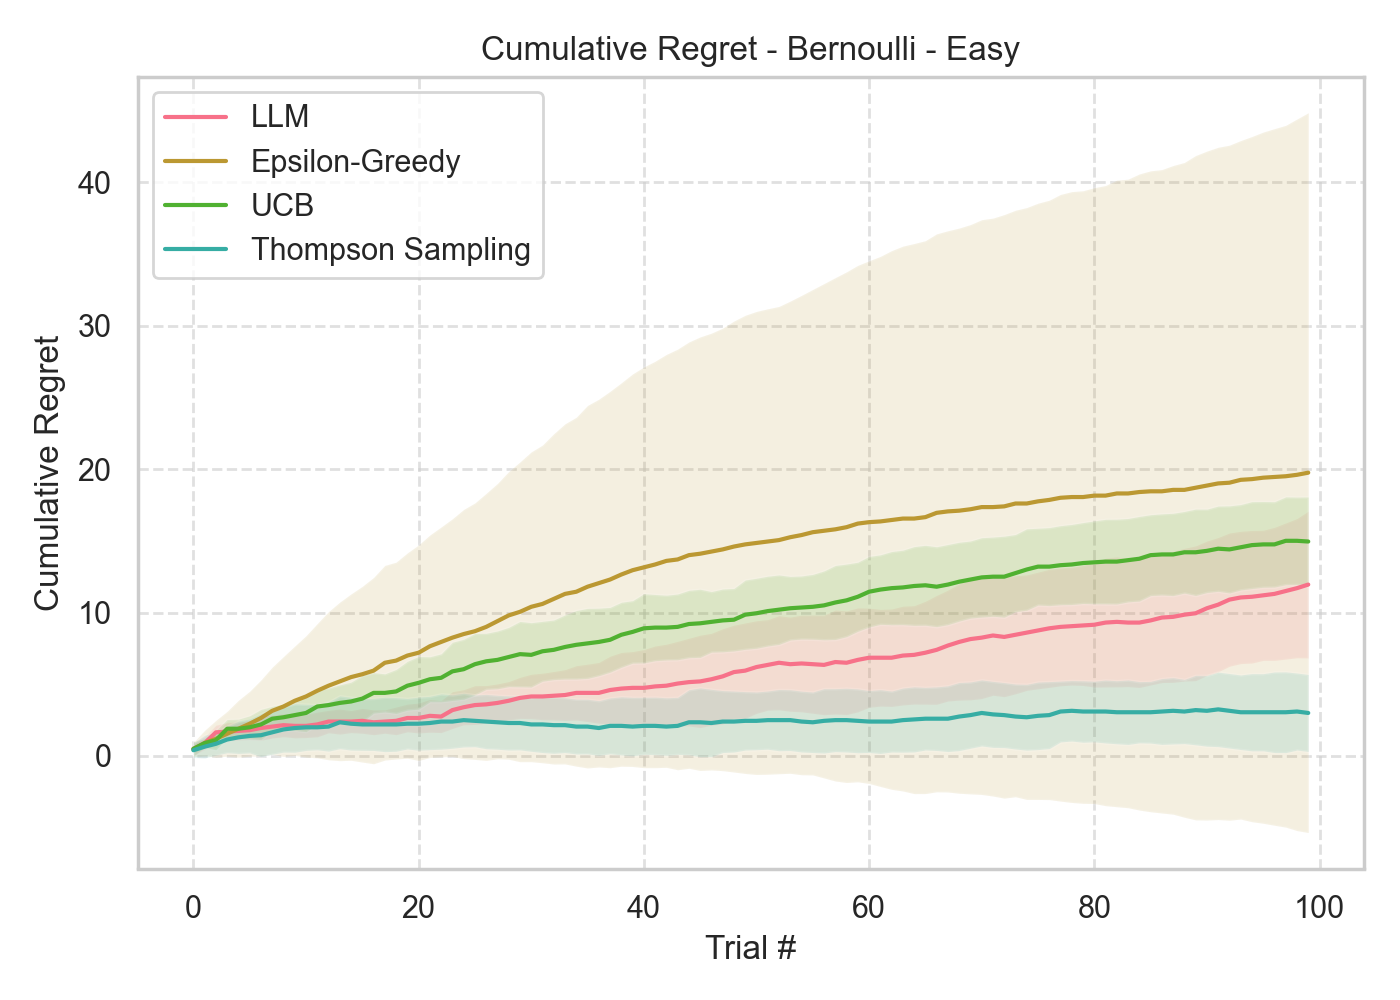
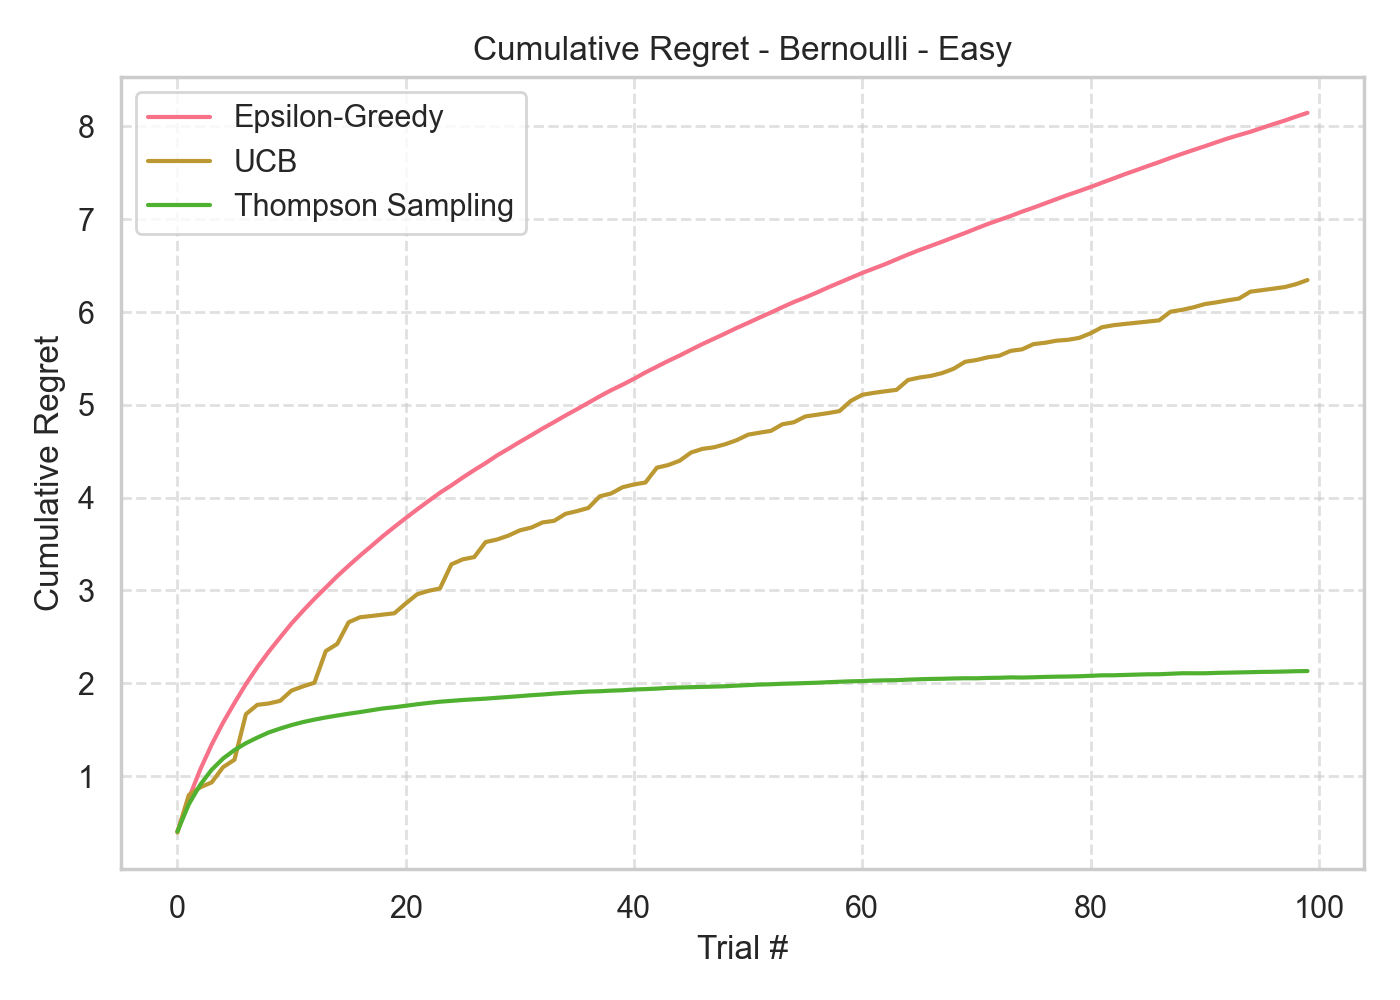
scenarios cases

diff --git a/scenario.py b/scenario.py
@@ -2,10 +2,13 @@ import numpy as np
 import matplotlib.pyplot as plt
 from typing import List, Tuple, Dict, Optional
 import seaborn as sns
-from agents.llm_agent import LLMAgent
+# from agents.llm_agent import LLMAgent  # Commented out LLM agent
 from agents.epsilon import EpsilonGreedyAgent
+from agents.gaussian_epsilon_greedy import GaussianEpsilonGreedyAgent
 from agents.ucb import UCBAgent
+from agents.gaussian_ucb import GaussianUCBAgent
 from agents.thompson import ThompsonSamplingAgent
+from agents.gaussian_thompson_sampling import GaussianThompsonSamplingAgent
 from environments.bernoulli_bandit import BernoulliBandit
 from environments.gaussian_bandit import GaussianBandit
 import os
@@ -30,12 +33,20 @@ class BanditScenario:
         self.n_trials = n_trials
         self.n_episodes = n_episodes
         
-        # Initialize agents
-        self.agents = {
-            'LLM': LLMAgent(),
-            'Epsilon-Greedy': EpsilonGreedyAgent(epsilon=0.1),
+        # Initialize agents for Bernoulli bandit
+        self.bernoulli_agents = {
+            'Epsilon-Greedy': EpsilonGreedyAgent(epsilon=0.1, environment_type='bernoulli'),
             'UCB': UCBAgent(),
-            'Thompson Sampling': ThompsonSamplingAgent()
+            'Thompson Sampling': ThompsonSamplingAgent(environment_type='bernoulli'),
+            # 'LLM': LLMAgent(model="gpt-4.1-nano"),  # Commented out LLM agent
+        }
+        
+        # Initialize agents for Gaussian bandit
+        self.gaussian_agents = {
+            'Epsilon-Greedy': GaussianEpsilonGreedyAgent(n_arms=n_arms, epsilon=0.1),
+            'UCB': GaussianUCBAgent(n_arms=n_arms),
+            'Thompson Sampling': GaussianThompsonSamplingAgent(n_arms=n_arms),
+            # 'LLM': LLMAgent(model="gpt-4.1-nano"),  # Commented out LLM agent
         }
         
         # Set up plotting style
@@ -105,13 +116,13 @@ class BanditScenario:
         return (mean1, std1), (mean2, std2)
         
     def run_bernoulli_scenario(self, scenario: str):
-        results = {agent_name: np.zeros((self.n_episodes, self.n_trials)) for agent_name in self.agents.keys()}
+        results = {agent_name: np.zeros((self.n_episodes, self.n_trials)) for agent_name in self.bernoulli_agents.keys()}
         optimal_per_episode = np.zeros(self.n_episodes)
         for episode in range(self.n_episodes):
             p1, p2 = self._sample_bernoulli_params(scenario)
             env = BernoulliBandit(n_actions=2, probs=[p1, p2])
             optimal_per_episode[episode] = max(p1, p2)
-            for agent_name, agent in self.agents.items():
+            for agent_name, agent in self.bernoulli_agents.items():
                 agent.init_actions(self.n_arms)
                 rewards = []
                 for _ in range(self.n_trials):
@@ -123,14 +134,14 @@ class BanditScenario:
         return results, optimal_per_episode
         
     def run_gaussian_scenario(self, scenario: str):
-        results = {agent_name: np.zeros((self.n_episodes, self.n_trials)) for agent_name in self.agents.keys()}
+        results = {agent_name: np.zeros((self.n_episodes, self.n_trials)) for agent_name in self.gaussian_agents.keys()}
         optimal_per_episode = np.zeros(self.n_episodes)
         for episode in range(self.n_episodes):
             (mean1, std1), (mean2, std2) = self._sample_gaussian_params(scenario)
             env = GaussianBandit(n_actions=2)
             env.set([mean1, mean2], [std1, std2])
             optimal_per_episode[episode] = max(mean1, mean2)
-            for agent_name, agent in self.agents.items():
+            for agent_name, agent in self.gaussian_agents.items():
                 agent.init_actions(self.n_arms)
                 rewards = []
                 for _ in range(self.n_trials):
@@ -148,7 +159,7 @@ class BanditScenario:
             mean_regret = regret.mean(axis=0)
             std_regret = regret.std(axis=0)
             plt.plot(mean_regret, label=agent_name)
-            plt.fill_between(np.arange(self.n_trials), mean_regret-std_regret, mean_regret+std_regret, alpha=0.15)
+            # plt.fill_between(np.arange(self.n_trials), mean_regret-std_regret, mean_regret+std_regret, alpha=0.15)  # Removed confidence intervals
         plt.title(f'Cumulative Regret - {env_type} - {scenario.capitalize()}')
         plt.xlabel('Trial #')
         plt.ylabel('Cumulative Regret')
@@ -170,7 +181,7 @@ class BanditScenario:
 
 def main():
     scenarios = ['easy', 'medium', 'hard', 'uniform']
-    bandit_scenario = BanditScenario(n_trials=100, n_episodes=20)
+    bandit_scenario = BanditScenario(n_trials=100, n_episodes=20000)
     regret_summary = {'Bernoulli': [], 'Gaussian': []}
     for scenario in scenarios:
         print(f"\nRunning {scenario} scenario...")
@@ -183,14 +194,14 @@ def main():
         # For heatmap: store final cumulative regret for each agent (use per-episode optimal)
         regret_summary['Bernoulli'].append([
             np.mean(np.cumsum(bernoulli_optimal[:, None] - bernoulli_results[agent], axis=1)[:, -1])
-            for agent in bandit_scenario.agents.keys()
+            for agent in bandit_scenario.bernoulli_agents.keys()
         ])
         regret_summary['Gaussian'].append([
             np.mean(np.cumsum(gaussian_optimal[:, None] - gaussian_results[agent], axis=1)[:, -1])
-            for agent in bandit_scenario.agents.keys()
+            for agent in bandit_scenario.gaussian_agents.keys()
         ])
     # Plot heatmaps
-    agents = list(bandit_scenario.agents.keys())
+    agents = list(bandit_scenario.bernoulli_agents.keys())
     bandit_scenario.plot_heatmap(np.array(regret_summary['Bernoulli']), scenarios, agents, 'Bernoulli Bandit: Final Cumulative Regret', 'bernoulli_regret_heatmap.png')
     bandit_scenario.plot_heatmap(np.array(regret_summary['Gaussian']), scenarios, agents, 'Gaussian Bandit: Final Cumulative Regret', 'gaussian_regret_heatmap.png')
     print("Plots saved: cumulative regret curves and heatmaps.")

diff --git a/agents/epsilon.py b/agents/epsilon.py
@@ -8,21 +8,23 @@ class EpsilonGreedyAgent(BaseAgent):
     with probability 1-epsilon.
     """
 
-    def __init__(self, epsilon=0.01, environment_type='bernoulli'):
+    def __init__(self, epsilon: float = 0.1, environment_type: str = 'bernoulli', c: float = 1.0):
         """
         Initializes the EpsilonGreedyAgent.
 
         Args:
             epsilon (float): The probability of exploration (choosing a random action).
             environment_type (str): Type of environment ('bernoulli' or 'gaussian')
+            c (float): Parameter for annealed epsilon
         """
         super().__init__("EpsilonGreedy")
         if not (0 <= epsilon <= 1):
             raise ValueError("Epsilon must be between 0 and 1")
-        self._epsilon = epsilon
+        self.epsilon = epsilon
         self._successes = None
         self._failures = None
         self.environment_type = environment_type
+        self.c = c
         self.t = 0  # Add time step counter
 
     def init_actions(self, n_actions):
@@ -39,6 +41,7 @@ class EpsilonGreedyAgent(BaseAgent):
         else:  # gaussian
             self.rewards = np.zeros(n_actions)
             self.counts = np.zeros(n_actions)
+        self.t = 0
 
     def get_action(self):
         """
@@ -48,11 +51,10 @@ class EpsilonGreedyAgent(BaseAgent):
             int: The index of the chosen action.
         """
         self.t += 1  # Increment time step
+        current_epsilon = min(1.0, self.c / np.sqrt(self.t))
         if self.environment_type == 'bernoulli':
             if self._successes is None or self._failures is None:
                 raise ValueError("Agent has not been initialized. Call init_actions() first.")
-            # Decaying epsilon: epsilon = 1/sqrt(t)
-            current_epsilon = min(1.0, 1.0 / np.sqrt(self.t))
             if np.random.random() < current_epsilon:
                 return np.random.randint(len(self._successes))
             else:
@@ -61,7 +63,7 @@ class EpsilonGreedyAgent(BaseAgent):
         else:  # gaussian
             if self.rewards is None or self.counts is None:
                 raise ValueError("Agent has not been initialized. Call init_actions() first.")
-            if np.random.random() < self._epsilon:
+            if np.random.random() < current_epsilon:
                 return np.random.randint(len(self.rewards))
             else:
                 q_values = self.rewards / (self.counts + 1e-6)
@@ -86,4 +88,4 @@ class EpsilonGreedyAgent(BaseAgent):
     @property
     def name(self):
         """Returns the name of the agent, including the epsilon value and environment type."""
-        return f"{self._name}(epsilon={self._epsilon}, {self.environment_type})"
+        return f"{self._name}(epsilon={self.epsilon}, {self.environment_type})"

diff --git a/agents/ucb.py b/agents/ucb.py
@@ -43,7 +43,7 @@ class UCBAgent(BaseAgent):
             return np.argmin(self._counts)
 
         means = self._rewards / (self._counts + 1e-6)
-        exploration_bonus = 3 * np.sqrt(np.log(self._total_steps + 1) / (self._counts + 1e-6))
+        exploration_bonus = np.sqrt(2 * np.log(self._total_steps + 1) / (self._counts + 1e-6))
         ucb_values = means + exploration_bonus
         return np.argmax(ucb_values)
 
